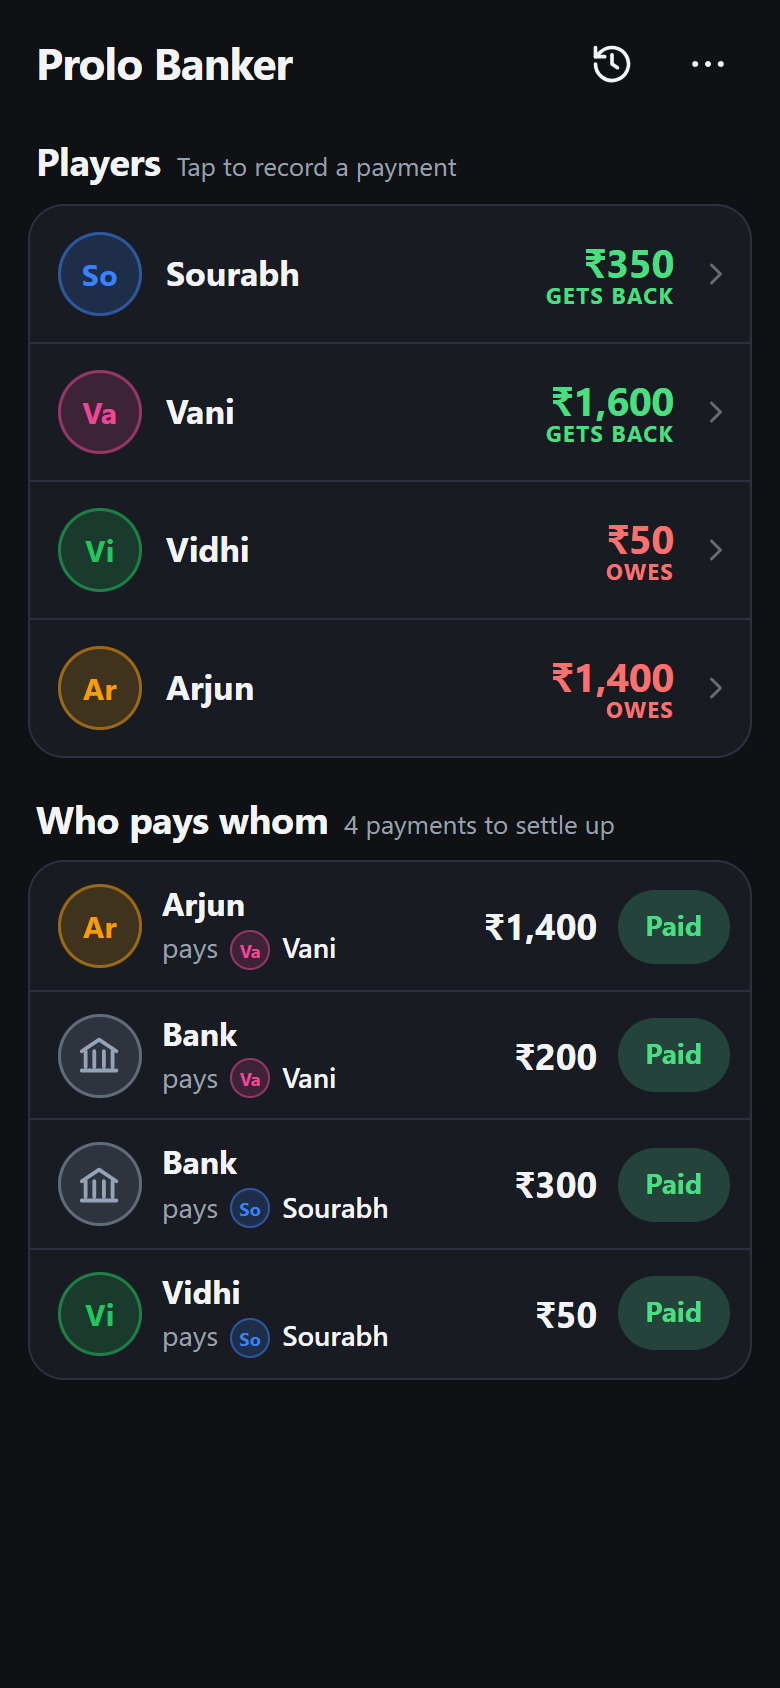
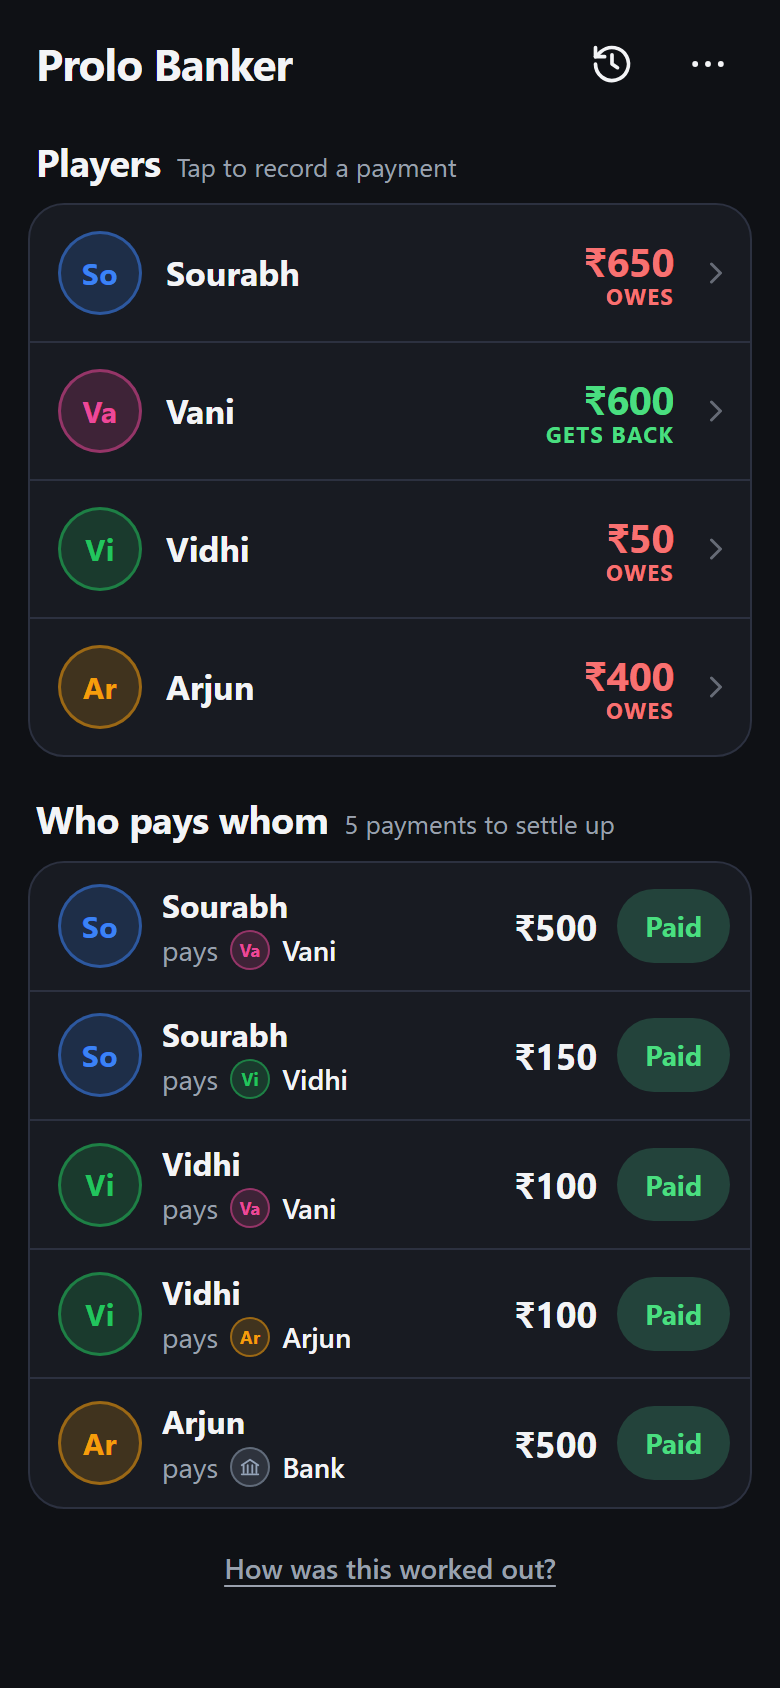
Replace Pays/Receives with Owes/Pays and colour-code the entry sheet
- Owes records a debt; Pays records money handed over and reduces what the player owes

- Entry sheet turns red for Owes and green for Pays (selected button, top strip, amount, confirm button)

- History, toast and trail wording use owes/paid

- Refresh README screenshots and text

- Bump service worker cache to bgb-v15

diff --git a/public/app.js b/public/app.js
@@ -3,9 +3,9 @@
 /*
  * Prolo Board Game Banker: who owes how much to whom.
  *
- * Every entry in the log is either an in-game payment ("A pays B ₹N"),
- * which A now owes B, or a settlement ("A settled ₹N with B"), which clears
- * that debt. The Bank is a party like any player. Net positions are
+ * Every entry in the log is either a debt ("A owes B ₹N") or money actually
+ * handed over ("A pays B ₹N", stored with k: 'paid'), which cancels what A
+ * owed B. The Bank is a party like any player. Net positions are
  * recomputed from the log, and the "Who pays whom" list shows what each pair
  * of people still owe each other. All state lives in localStorage.
  */
@@ -47,7 +47,8 @@ function save() {
 
 let state = load();
 let undoSnapshot = null;
-let tx = null; // open entry: { pid, dir: 'pay'|'get', cp: 'bank'|'all'|playerId, amt: string }
+// open entry: { pid, dir: 'owe' (records a debt) | 'pay' (money handed over), cp: 'bank'|'all'|playerId, amt: string }
+let tx = null;
 const lastCp = {}; // remembers each player's last counterparty for this session
 let setupMode = 'new';
 
@@ -92,10 +93,12 @@ function nets(log = state.log) {
  * payment means the payer owes the payee; a settlement reverses that.
  */
 function entryDebts(e) {
-  if (e.k === 'paid') return [[e.to, e.from, e.amt]];
-  if (e.to === 'all') return e.ids.map((o) => [e.from, o, e.amt]);
-  if (e.from === 'all') return e.ids.map((o) => [o, e.to, e.amt]);
-  return [[e.from, e.to, e.amt]];
+  let debts;
+  if (e.to === 'all') debts = e.ids.map((o) => [e.from, o, e.amt]);
+  else if (e.from === 'all') debts = e.ids.map((o) => [o, e.to, e.amt]);
+  else debts = [[e.from, e.to, e.amt]];
+  // Money handed over runs the other way: it cancels what the payer owed.
+  return e.k === 'paid' ? debts.map(([a, b, amt]) => [b, a, amt]) : debts;
 }
 
 /** How one log entry changes each party's net position. */
@@ -181,11 +184,12 @@ function buzz() {
 
 // ---------- Entries ----------
 
+/** "Owes" entries record a debt; "paid" entries record money actually handed over. */
 function describe(e) {
-  if (e.k === 'paid') return `${nameOf(e.from)} settled ${fmt(e.amt)} with ${nameOf(e.to)}`;
-  if (e.to === 'all') return `${nameOf(e.from)} pays everyone ${fmt(e.amt)} each`;
-  if (e.from === 'all') return `Everyone pays ${nameOf(e.to)} ${fmt(e.amt)} each`;
-  return `${nameOf(e.from)} pays ${nameOf(e.to)} ${fmt(e.amt)}`;
+  const verb = e.k === 'paid' ? 'paid' : 'owes';
+  if (e.to === 'all') return `${nameOf(e.from)} ${verb} everyone ${fmt(e.amt)} each`;
+  if (e.from === 'all') return `Everyone ${e.k === 'paid' ? 'paid' : 'owes'} ${nameOf(e.to)} ${fmt(e.amt)} each`;
+  return `${nameOf(e.from)} ${verb} ${nameOf(e.to)} ${fmt(e.amt)}`;
 }
 
 function commit(entry) {
@@ -271,13 +275,15 @@ function renderSettlements() {
   $('#btn-explain').hidden = !list.length;
 }
 
-/** One history entry as seen by party `id`, e.g. "Pays Player 2" or "Gets from Bank". */
+/** One history entry as seen by party `id`, e.g. "Owes Player 2" or "Paid by Bank". */
 function trailLabel(e, id) {
   const name = (x) => esc(nameOf(x));
-  if (e.k === 'paid') return e.from === id ? `Settled up with ${name(e.to)}` : `${name(e.from)} settled up`;
-  if (e.to === 'all') return e.from === id ? `Pays everyone ${fmt(e.amt)} each` : `Gets from ${name(e.from)}`;
-  if (e.from === 'all') return e.to === id ? `Gets ${fmt(e.amt)} from everyone` : `Pays ${name(e.to)}`;
-  return e.from === id ? `Pays ${name(e.to)}` : `Gets from ${name(e.from)}`;
+  const paid = e.k === 'paid';
+  const sent = (to) => (paid ? `Paid ${to}` : `Owes ${to}`);
+  const got = (from) => (paid ? `Paid by ${from}` : `${from} owes them`);
+  if (e.to === 'all') return e.from === id ? sent(`everyone ${fmt(e.amt)} each`) : got(name(e.from));
+  if (e.from === 'all') return e.to === id ? got('everyone') : sent(name(e.to));
+  return e.from === id ? sent(name(e.to)) : got(name(e.from));
 }
 
 const runLabel = (v) => (v < 0 ? `owes ${fmt(-v)}` : v > 0 ? `gets back ${fmt(v)}` : 'square');
@@ -378,7 +384,7 @@ function openTx(pid) {
   const remembered = lastCp[pid];
   // Default to the Bank unless this player last dealt with someone still in the game.
   const cp = remembered === 'all' || opp.some((p) => p.id === remembered) ? remembered : BANK;
-  tx = { pid, dir: 'pay', cp, amt: '' };
+  tx = { pid, dir: 'owe', cp, amt: '' };
 
   const opts = [{ id: BANK, label: 'Bank', color: BANK_COLOR }]
     .concat(opp.map((p) => ({ id: p.id, label: p.name, color: p.color })));
@@ -418,10 +424,13 @@ function renderTx() {
   for (const b of document.querySelectorAll('#tx .seg button')) {
     b.setAttribute('aria-pressed', String(b.dataset.dir === tx.dir));
   }
+  // Colours the whole sheet (top strip, amount, confirm button): red for a debt, green for money handed over.
+  $('#tx').classList.toggle('mode-owe', tx.dir === 'owe');
+  $('#tx').classList.toggle('mode-pay', tx.dir === 'pay');
   for (const b of document.querySelectorAll('#tx-cp .chip')) {
     b.setAttribute('aria-pressed', String(b.dataset.cp === tx.cp));
   }
-  $('#tx-cp-label').textContent = tx.dir === 'pay' ? 'to' : 'from';
+
 
   const out = $('#tx-amount');
   out.textContent = fmt(amt);
@@ -430,7 +439,8 @@ function renderTx() {
 
   const count = tx.cp === 'all' ? others(tx.pid).length : 1;
   const total = amt * count;
-  const after = netStatus(net + (tx.dir === 'pay' ? -total : total));
+  // Owing more lowers their total; paying money over raises it back.
+  const after = netStatus(net + (tx.dir === 'owe' ? -total : total));
   const afterEl = $('#tx-after');
   afterEl.textContent = amt
     ? `${count > 1 ? `Total ${fmt(total)} · ` : ''}${p.name} then ${after.cls === 'zero' ? 'is settled' : `${after.label} ${after.amount}`}`
@@ -442,9 +452,7 @@ function renderTx() {
   const each = tx.cp === 'all' ? ' each' : '';
   go.textContent = !amt
     ? 'Enter amount'
-    : tx.dir === 'pay'
-      ? `${p.name} pays ${tx.cp === 'all' ? 'everyone' : nameOf(tx.cp)} ${fmt(amt)}${each}`
-      : `${p.name} receives ${fmt(amt)}${each} from ${tx.cp === 'all' ? 'everyone' : nameOf(tx.cp)}`;
+    : `${p.name} ${tx.dir === 'owe' ? 'owes' : 'pays'} ${tx.cp === 'all' ? 'everyone' : nameOf(tx.cp)} ${fmt(amt)}${each}`;
 }
 
 function pressKey(k) {
@@ -457,7 +465,9 @@ function confirmTx() {
   const amt = Number(tx.amt) || 0;
   if (!amt) return;
   const e = { id: uid(), t: Date.now(), amt };
-  if (tx.dir === 'pay') { e.from = tx.pid; e.to = tx.cp; } else { e.from = tx.cp; e.to = tx.pid; }
+  e.from = tx.pid;
+  e.to = tx.cp;
+  if (tx.dir === 'pay') e.k = 'paid';
   if (tx.cp === 'all') e.ids = others(tx.pid).map((p) => p.id);
   lastCp[tx.pid] = tx.cp;
   $('#tx').close();
@@ -508,9 +518,9 @@ function renderHistory() {
     return;
   }
   list.innerHTML = state.log.slice().reverse().map((e) => {
-    const verb = e.k === 'paid' ? 'settled with' : 'pays';
+    const verb = e.k === 'paid' ? 'paid' : 'owes';
     const who = `${esc(nameOf(e.from))} ${verb} ${esc(nameOf(e.to))}`;
-    const meta = (e.k === 'paid' ? 'Settlement · ' : '') + timeLabel(e.t);
+    const meta = (e.k === 'paid' ? 'Money handed over · ' : '') + timeLabel(e.t);
     const amt = e.ids
       ? `${fmt(e.amt)}<small>each · ${fmt(e.amt * e.ids.length)}</small>`
       : fmt(e.amt);

diff --git a/public/styles.css b/public/styles.css
@@ -520,6 +520,30 @@ dialog.sheet::backdrop { background: rgb(0 0 0 / .55); }
 }
 .seg button[aria-pressed="true"] { background: var(--surface); color: var(--text); box-shadow: 0 1px 3px rgb(0 0 0 / .25); }
 
+/* Owes vs Pays on the entry sheet: each mode has its own colour so the two can't be mixed up. */
+#tx { --owe: #dc2626; --pay: #16a34a; --mode: var(--owe); --mode-on: #fff; }
+#tx.mode-pay { --mode: var(--pay); }
+#tx.mode-owe, #tx.mode-pay { box-shadow: inset 0 5px 0 var(--mode); }
+#tx .seg button {
+  display: flex; flex-direction: column; align-items: center; gap: 1px;
+  padding: 8px 6px;
+}
+.seg-title { display: inline-flex; align-items: center; gap: 6px; font-size: 16px; }
+.seg-title svg { width: 18px; height: 18px; }
+.seg-title circle { fill: none; stroke: currentColor; }
+.seg-sub { font-size: 11px; font-weight: 600; opacity: .8; }
+#tx .seg button[data-dir="owe"][aria-pressed="true"],
+#tx .seg button[data-dir="pay"][aria-pressed="true"] {
+  background: var(--mode);
+  color: var(--mode-on);
+  box-shadow: 0 1px 4px color-mix(in srgb, var(--mode) 45%, transparent);
+}
+#tx .amount:not(.empty) { color: var(--mode); }
+@media (prefers-color-scheme: dark) {
+  #tx .amount:not(.empty) { color: color-mix(in srgb, var(--mode) 70%, #fff); }
+}
+#tx #tx-go:not(:disabled) { background: var(--mode); color: var(--mode-on); }
+
 .cp-row { display: flex; align-items: center; gap: 10px; }
 .cp-row > .muted { flex: none; width: 36px; font-size: 14px; }
 .cp-row .chips { flex: 1; min-width: 0; }

diff --git a/public/index.html b/public/index.html
@@ -105,8 +105,20 @@
     </div>
 
     <div class="seg" role="group" aria-label="Direction">
-      <button type="button" data-dir="pay">Pays</button>
-      <button type="button" data-dir="get">Receives</button>
+      <button type="button" data-dir="owe">
+        <span class="seg-title">
+          <svg viewBox="0 0 24 24" aria-hidden="true"><path d="M14 3H7a2 2 0 0 0-2 2v14a2 2 0 0 0 2 2h10a2 2 0 0 0 2-2V8z"/><path d="M14 3v5h5M9 13h6M9 17h4"/></svg>
+          Owes
+        </span>
+        <span class="seg-sub">Adds a debt</span>
+      </button>
+      <button type="button" data-dir="pay">
+        <span class="seg-title">
+          <svg viewBox="0 0 24 24" aria-hidden="true"><rect x="2" y="6" width="20" height="12" rx="2"/><circle cx="12" cy="12" r="2.5"/></svg>
+          Pays
+        </span>
+        <span class="seg-sub">Money handed over</span>
+      </button>
     </div>
 
     <div class="cp-row">

diff --git a/public/sw.js b/public/sw.js
@@ -1,7 +1,7 @@
 // Offline support: always try the network first so an installed app picks up
 // new versions straight away, and fall back to the cached copy when offline
 // or the network is too slow. Bump CACHE when you deploy so old caches are cleaned up.
-const CACHE = 'bgb-v13';
+const CACHE = 'bgb-v15';
 const ASSETS = [
   '/', '/styles.css', '/app.js', '/manifest.webmanifest',
   '/icon.svg', '/icon-192.png', '/apple-touch-icon.png', '/favicon-32.png',

diff --git a/README.md b/README.md
@@ -17,9 +17,9 @@
 <p align="center">
   <img src="docs/screenshots/1-players.png" width="240" alt="Players list showing who owes and who gets back, with the payments to settle up">
   &nbsp;
-  <img src="docs/screenshots/2-record-payment.png" width="240" alt="Recording a payment: Arjun pays Bank ₹1,000 using the keypad and quick amount buttons">
+  <img src="docs/screenshots/2-record-payment.png" width="240" alt="Recording money handed over: Arjun pays Bank ₹400, with the green Pays mode selected">
   &nbsp;
-  <img src="docs/screenshots/3-history.png" width="240" alt="History of every payment with delete">
+  <img src="docs/screenshots/3-history.png" width="240" alt="History of every debt and payment, with delete">
 </p>
 
 ## Why
@@ -29,9 +29,9 @@ In money-based board games, someone has to play banker, keep track of loans, ren
 ## Features
 
 - **Who pays whom.** Each person pays back the people they dealt with, including the Bank. Debts are never passed along to a third person; if two people paid each other, only the difference is paid. Tap **Paid** when the money changes hands.
-- **Fast entry.** Tap a player, choose **Pays** or **Receives**, pick the Bank, another player or **Everyone**, and enter the amount on a big keypad or with +₹50 / +₹100 / +₹500 / +₹1,000 / +₹5,000 buttons.
+- **Fast entry.** Tap a player, choose **Owes** (records a debt) or **Pays** (money actually handed over, which reduces what they owe), pick the Bank, another player or **Everyone**, and enter the amount on a big keypad or with +₹50 / +₹100 / +₹500 / +₹1,000 / +₹5,000 buttons.
 - **Bank included.** The Bank is a party like any player and is selected by default.
-- **Pay everyone at once.** "Vidhi pays everyone ₹100 each" is one entry.
+- **Everyone at once.** "Vidhi owes everyone ₹100 each" is one entry.
 - **Clear net position.** Each player shows how much they owe or get back overall.
 - **Undo anything.** Every action has Undo, and History lets you delete any past entry. Totals are always recalculated from the full log, so they stay correct.
 - **Rupees by default.** ₹ with Indian digit grouping (₹1,50,000). Change the symbol to $, €, £ or anything else.
@@ -61,7 +61,7 @@ It installs like an app, with its own icon and full-screen view.
 ## How a game works
 
 1. **Start a game.** Enter player names, or leave them blank for "Player 1", "Player 2" and so on. The last game's players are pre-filled for a rematch.
-2. **Record payments as they happen.** For example, "Arjun pays Bank ₹1,500" or "Vani receives ₹2,000 from Bank". Nothing has to be paid on the spot; the app keeps a running tally.
+2. **Record payments as they happen.** For example, "Arjun owes Bank ₹1,500". Nothing has to be paid on the spot; the app keeps a running tally. When money does change hands, record it with **Pays**: "Arjun pays Bank ₹1,000" leaves him owing ₹500.
 3. **Settle up.** The **Who pays whom** list shows what each pair of people still owe each other. For example, if Vani owes Sourabh ₹200 and Sourabh owes Vidhi ₹200, it shows both payments: Vani pays Sourabh ₹200 and Sourabh pays Vidhi ₹200. If Sourabh also owes Vani ₹50, Vani pays Sourabh only ₹150.
 
 ## Self-host on Cloudflare Workers
